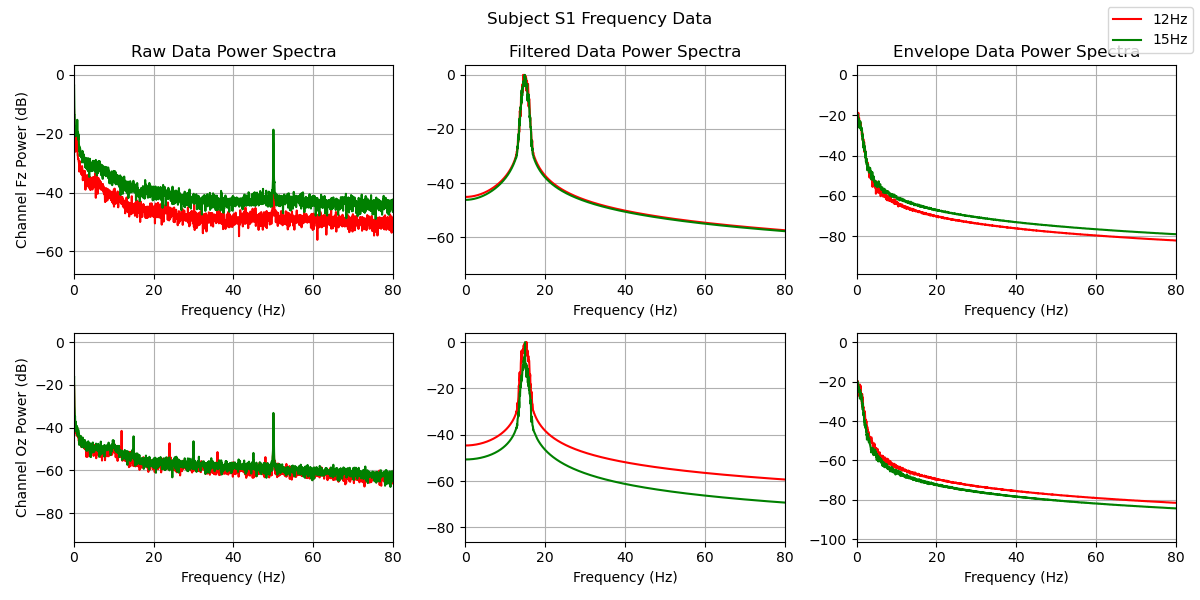
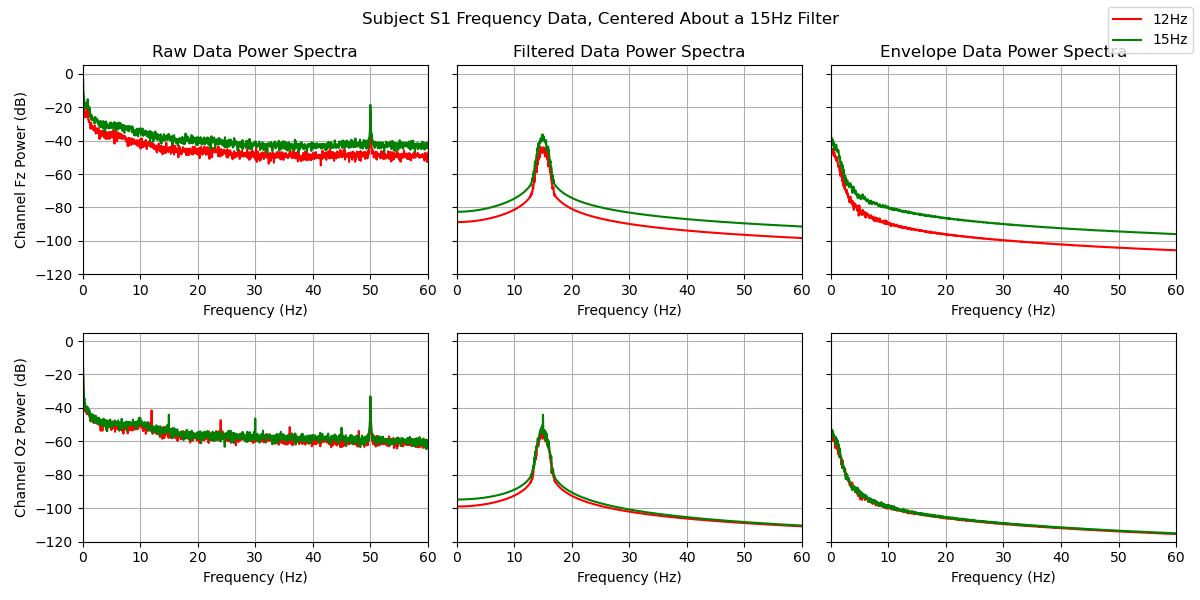
Updated TODO, edited y limits

diff --git a/filter_ssvep_data.py b/filter_ssvep_data.py
@@ -198,11 +198,6 @@ def get_envelope(data, filtered_data, channel_to_plot=None, ssvep_frequency=None
 
 #%% Part 5: Plot the Amplitudes
 
-"""
-    TODO:
-        - Check about channel_to_plot being optional
-"""
-
 def plot_ssvep_amplitudes(data, envelope_a, envelope_b, channel_to_plot, ssvep_freq_a, ssvep_freq_b, subject):
     '''
     Description
@@ -404,6 +399,7 @@ def plot_filtered_spectra(data, filtered_data, envelope, channels_to_plot=['Fz',
             # formatting applied to each subplot
             plots[row_index][column_index].grid()
             plots[row_index][column_index].set_xlim(0,60)
+            plots[row_index][column_index].set_ylim(-120,5)
             plots[row_index][column_index].tick_params(labelbottom=True)
             
     # whole figure formatting
